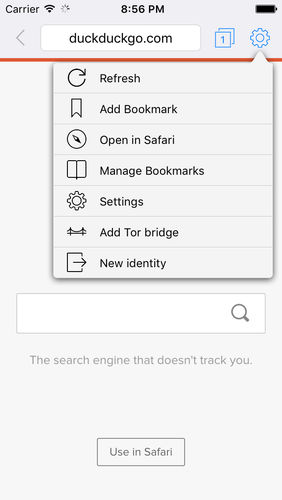
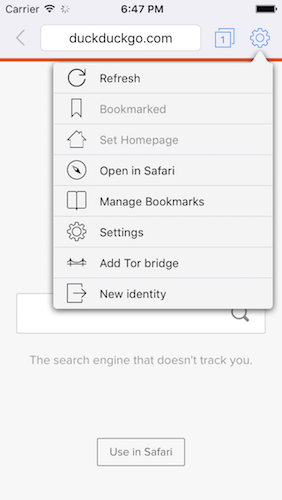
Fixed homepage bug and tweaked tab selection
Fixed a bug where the « Set Homepage » button would always be disabled
No longer selects automatically the next tab when closing a tab

diff --git a/OnionBrowser/OnionBrowser/BookmarkController.m b/OnionBrowser/OnionBrowser/BookmarkController.m
@@ -39,29 +39,29 @@ UIBarButtonItem *leftItem;
 
 - (void)viewDidLoad
 {
-	[super viewDidLoad];
-	
-	appDelegate = (AppDelegate *)[[UIApplication sharedApplication] delegate];
-	
-	self.title = @"Bookmarks";
-	self.navigationItem.rightBarButtonItem = addItem = [[UIBarButtonItem alloc] initWithBarButtonSystemItem:UIBarButtonSystemItemAdd target:self action:@selector(addItem:)];
-	self.navigationItem.leftBarButtonItem = leftItem = [[UIBarButtonItem alloc] initWithTitle:@"Done" style:UIBarButtonItemStyleDone target:self.navigationController action:@selector(dismissModalViewControllerAnimated:)];
-	
-	UILongPressGestureRecognizer *lpgr = [[UILongPressGestureRecognizer alloc] initWithTarget:self action:@selector(didLongPress:)];
-	lpgr.minimumPressDuration = 0.75f;
-	lpgr.delegate = self;
-	[[self tableView] addGestureRecognizer:lpgr];
+    [super viewDidLoad];
+    
+    appDelegate = (AppDelegate *)[[UIApplication sharedApplication] delegate];
+    
+    self.title = @"Bookmarks";
+    self.navigationItem.rightBarButtonItem = addItem = [[UIBarButtonItem alloc] initWithBarButtonSystemItem:UIBarButtonSystemItemAdd target:self action:@selector(addItem:)];
+    self.navigationItem.leftBarButtonItem = leftItem = [[UIBarButtonItem alloc] initWithTitle:@"Done" style:UIBarButtonItemStyleDone target:self.navigationController action:@selector(dismissModalViewControllerAnimated:)];
+    
+    UILongPressGestureRecognizer *lpgr = [[UILongPressGestureRecognizer alloc] initWithTarget:self action:@selector(didLongPress:)];
+    lpgr.minimumPressDuration = 0.75f;
+    lpgr.delegate = self;
+    [[self tableView] addGestureRecognizer:lpgr];
 }
 
 - (void)viewWillDisappear:(BOOL)animated
 {
-	[Bookmark persistList];
+    [Bookmark persistList];
 }
 
 - (void)didReceiveMemoryWarning
 {
-	[super didReceiveMemoryWarning];
-	// Dispose of any resources that can be recreated.
+    [super didReceiveMemoryWarning];
+    // Dispose of any resources that can be recreated.
 }
 
 #pragma mark - Table view data source
@@ -71,51 +71,51 @@ UIBarButtonItem *leftItem;
     if (self.embedded)
         return 2;
     
-	return 1;
+    return 1;
 }
 
 - (NSInteger)tableView:(UITableView *)tableView numberOfRowsInSection:(NSInteger)section
 {
     if (section == 1 || !self.embedded)
         return [[Bookmark list] count];
-
-	return 1;
+    
+    return 1;
 }
 
 - (NSString *)tableView:(UITableView *)tableView titleForHeaderInSection:(NSInteger)section
 {
     if (self.embedded && section == 1)
-		return @"Bookmarks";
+        return @"Bookmarks";
     else
-		return nil;
+        return nil;
 }
 
 - (void)tableView:(UITableView *)tableView willDisplayHeaderView:(UIView *)view forSection:(NSInteger)section
 {
-	if (self.embedded && [view isKindOfClass:[UITableViewHeaderFooterView class]]) {
-		UITableViewHeaderFooterView *tableViewHeaderFooterView = (UITableViewHeaderFooterView *) view;
-		int buttonSize = tableViewHeaderFooterView.frame.size.height - 8;
-		
-		UIButton *b = [[UIButton alloc] init];
-		//[b setFrame:CGRectMake(tableViewHeaderFooterView.frame.size.width - buttonSize - 6, 3, buttonSize, buttonSize)];
+    if (self.embedded && [view isKindOfClass:[UITableViewHeaderFooterView class]]) {
+        UITableViewHeaderFooterView *tableViewHeaderFooterView = (UITableViewHeaderFooterView *) view;
+        int buttonSize = tableViewHeaderFooterView.frame.size.height - 8;
+        
+        UIButton *b = [[UIButton alloc] init];
+        //[b setFrame:CGRectMake(tableViewHeaderFooterView.frame.size.width - buttonSize - 6, 3, buttonSize, buttonSize)];
         [b setFrame:CGRectMake(tableViewHeaderFooterView.frame.size.width - buttonSize * 2 - 6, 3, buttonSize * 2, buttonSize)];
-		[b setBackgroundColor:[UIColor lightGrayColor]];
-		[b setTitle:@"Close" forState:UIControlStateNormal];
-		[[b titleLabel] setFont:[UIFont boldSystemFontOfSize:12]];
-		[[b layer] setCornerRadius:buttonSize / 3];
-		[b setClipsToBounds:YES];
-		
-		[b addTarget:self action:@selector(close) forControlEvents:UIControlEventTouchUpInside];
-		
-		[tableViewHeaderFooterView addSubview:b];
-	}
+        [b setBackgroundColor:[UIColor lightGrayColor]];
+        [b setTitle:@"Close" forState:UIControlStateNormal];
+        [[b titleLabel] setFont:[UIFont boldSystemFontOfSize:12]];
+        [[b layer] setCornerRadius:buttonSize / 3];
+        [b setClipsToBounds:YES];
+        
+        [b addTarget:self action:@selector(close) forControlEvents:UIControlEventTouchUpInside];
+        
+        [tableViewHeaderFooterView addSubview:b];
+    }
 }
 
 - (UITableViewCell *)tableView:(UITableView *)tableView cellForRowAtIndexPath:(NSIndexPath *)indexPath
 {
-	UITableViewCell *cell = [tableView dequeueReusableCellWithIdentifier:@"bookmark"];
-	if (cell == nil)
-		cell = [[UITableViewCell alloc] initWithStyle:UITableViewCellStyleSubtitle reuseIdentifier:@"boomark"];
+    UITableViewCell *cell = [tableView dequeueReusableCellWithIdentifier:@"bookmark"];
+    if (cell == nil)
+        cell = [[UITableViewCell alloc] initWithStyle:UITableViewCellStyleSubtitle reuseIdentifier:@"boomark"];
     
     if (indexPath.row < [[Bookmark list] count] && (indexPath.section == 1 || !self.embedded)) {
         Bookmark *b = [[Bookmark list] objectAtIndex:indexPath.row];
@@ -128,11 +128,11 @@ UIBarButtonItem *leftItem;
         appDelegate = (AppDelegate *)[[UIApplication sharedApplication] delegate];
         cell.detailTextLabel.text = [appDelegate homepage];
     }
-
-	
-	[cell setShowsReorderControl:YES];
-	
-	return cell;
+    
+    
+    [cell setShowsReorderControl:YES];
+    
+    return cell;
 }
 
 - (void)tableView:(UITableView *)tableView didSelectRowAtIndexPath:(NSIndexPath *)indexPath
@@ -146,90 +146,90 @@ UIBarButtonItem *leftItem;
         }
     } else {
         Bookmark *bookmark = [Bookmark list][[indexPath row]];
-
-		[tableView deselectRowAtIndexPath:indexPath animated:YES];
-		
-		UIAlertController *alertController = [UIAlertController alertControllerWithTitle:@"Edit Bookmark" message:@"Enter the details of the URL to bookmark:" preferredStyle:UIAlertControllerStyleAlert];
-		[alertController addTextFieldWithConfigurationHandler:^(UITextField *textField) {
-			textField.placeholder = @"URL";
-			textField.text = bookmark.urlString;
-		}];
-		[alertController addTextFieldWithConfigurationHandler:^(UITextField *textField) {
-			textField.placeholder = @"Page Name (leave blank to use URL)";
-			textField.text = bookmark.name;
-		}];
-		
-		UIAlertAction *okAction = [UIAlertAction actionWithTitle:NSLocalizedString(@"OK", @"OK action") style:UIAlertActionStyleDefault handler:^(UIAlertAction *action) {
-			UITextField *url = alertController.textFields[0];
-			bookmark.urlString = [url text];
-			
-			UITextField *name = alertController.textFields[1];
-			bookmark.name = [name text];
-			
-			[self.tableView reloadData];
-		}];
-		
-		UIAlertAction *cancelAction = [UIAlertAction actionWithTitle:NSLocalizedString(@"Cancel", @"Cancel action") style:UIAlertActionStyleCancel handler:nil];
-		[alertController addAction:cancelAction];
-		[alertController addAction:okAction];
-		
-		[self presentViewController:alertController animated:YES completion:nil];
-	}
+        
+        [tableView deselectRowAtIndexPath:indexPath animated:YES];
+        
+        UIAlertController *alertController = [UIAlertController alertControllerWithTitle:@"Edit Bookmark" message:@"Enter the details of the URL to bookmark:" preferredStyle:UIAlertControllerStyleAlert];
+        [alertController addTextFieldWithConfigurationHandler:^(UITextField *textField) {
+            textField.placeholder = @"URL";
+            textField.text = bookmark.urlString;
+        }];
+        [alertController addTextFieldWithConfigurationHandler:^(UITextField *textField) {
+            textField.placeholder = @"Page Name (leave blank to use URL)";
+            textField.text = bookmark.name;
+        }];
+        
+        UIAlertAction *okAction = [UIAlertAction actionWithTitle:NSLocalizedString(@"OK", @"OK action") style:UIAlertActionStyleDefault handler:^(UIAlertAction *action) {
+            UITextField *url = alertController.textFields[0];
+            bookmark.urlString = [url text];
+            
+            UITextField *name = alertController.textFields[1];
+            bookmark.name = [name text];
+            
+            [self.tableView reloadData];
+        }];
+        
+        UIAlertAction *cancelAction = [UIAlertAction actionWithTitle:NSLocalizedString(@"Cancel", @"Cancel action") style:UIAlertActionStyleCancel handler:nil];
+        [alertController addAction:cancelAction];
+        [alertController addAction:okAction];
+        
+        [self presentViewController:alertController animated:YES completion:nil];
+    }
 }
 
 - (BOOL)tableView:(UITableView *)tableView canEditRowAtIndexPath:(NSIndexPath *)indexPath
 {
-	return YES;
+    return YES;
 }
 
 - (void)tableView:(UITableView *)tableView commitEditingStyle:(UITableViewCellEditingStyle)editingStyle forRowAtIndexPath:(NSIndexPath *)indexPath
 {
-	if (editingStyle == UITableViewCellEditingStyleDelete) {
-		[[Bookmark list] removeObjectAtIndex:[indexPath row]];
-		[tableView deleteRowsAtIndexPaths:@[indexPath] withRowAnimation:UITableViewRowAnimationFade];
-	}
+    if (editingStyle == UITableViewCellEditingStyleDelete) {
+        [[Bookmark list] removeObjectAtIndex:[indexPath row]];
+        [tableView deleteRowsAtIndexPaths:@[indexPath] withRowAnimation:UITableViewRowAnimationFade];
+    }
 }
 
 - (void)tableView:(UITableView *)tableView moveRowAtIndexPath:(NSIndexPath *)sourceIndexPath toIndexPath:(NSIndexPath *)destinationIndexPath
 {
-	Bookmark *s = [Bookmark list][[sourceIndexPath row]];
-	[[Bookmark list] removeObjectAtIndex:[sourceIndexPath row]];
-	[[Bookmark list] insertObject:s atIndex:[destinationIndexPath row]];
+    Bookmark *s = [Bookmark list][[sourceIndexPath row]];
+    [[Bookmark list] removeObjectAtIndex:[sourceIndexPath row]];
+    [[Bookmark list] insertObject:s atIndex:[destinationIndexPath row]];
 }
 
 - (void)addItem:sender
 {
-	UIAlertController *uiac = [Bookmark addBookmarkDialogWithOkCallback:^{
-		[self.tableView reloadData];
-	}];
-	
-	[self presentViewController:uiac animated:YES completion:nil];
+    UIAlertController *uiac = [Bookmark addBookmarkDialogWithOkCallback:^{
+        [self.tableView reloadData];
+    }];
+    
+    [self presentViewController:uiac animated:YES completion:nil];
 }
 
 - (void)didLongPress:(UILongPressGestureRecognizer *)gestureRecognizer
 {
-	CGPoint p = [gestureRecognizer locationInView:[self tableView]];
-	
-	NSIndexPath *indexPath = [[self tableView] indexPathForRowAtPoint:p];
-	if (gestureRecognizer.state == UIGestureRecognizerStateBegan && indexPath != nil) {
-		[[self tableView] setEditing:YES animated:YES];
-		
-		self.navigationItem.rightBarButtonItem = [[UIBarButtonItem alloc] initWithBarButtonSystemItem:UIBarButtonSystemItemDone target:self action:@selector(doneEditing:)];
-		self.navigationItem.leftBarButtonItem = nil;
-	}
+    CGPoint p = [gestureRecognizer locationInView:[self tableView]];
+    
+    NSIndexPath *indexPath = [[self tableView] indexPathForRowAtPoint:p];
+    if (gestureRecognizer.state == UIGestureRecognizerStateBegan && indexPath != nil) {
+        [[self tableView] setEditing:YES animated:YES];
+        
+        self.navigationItem.rightBarButtonItem = [[UIBarButtonItem alloc] initWithBarButtonSystemItem:UIBarButtonSystemItemDone target:self action:@selector(doneEditing:)];
+        self.navigationItem.leftBarButtonItem = nil;
+    }
 }
-	
+
 - (void)doneEditing:sender
 {
-	[[self tableView] setEditing:NO animated:YES];
-	self.navigationItem.rightBarButtonItem = addItem;
-	self.navigationItem.leftBarButtonItem = leftItem;
+    [[self tableView] setEditing:NO animated:YES];
+    self.navigationItem.rightBarButtonItem = addItem;
+    self.navigationItem.leftBarButtonItem = leftItem;
 }
 
 - (void)close
 {
-	[self removeFromParentViewController];
-	[[self view] removeFromSuperview];
+    [self removeFromParentViewController];
+    [[self view] removeFromSuperview];
 }
 
 @end

diff --git a/OnionBrowser/OnionBrowser/WebViewController.m b/OnionBrowser/OnionBrowser/WebViewController.m
@@ -497,6 +497,10 @@
 	}];
 }
 
+- (void)removeWithoutFocusingTab:(NSNumber *)tabNumber {
+    [self removeTab:tabNumber andFocusTab:[NSNumber numberWithInt:-2]];
+}
+
 - (void)removeTab:(NSNumber *)tabNumber
 {
 	[self removeTab:tabNumber andFocusTab:[NSNumber numberWithInt:-1]];
@@ -533,7 +537,7 @@
 	[tabChooser setNumberOfPages:webViewTabs.count];
 	[tabCount setText:[NSString stringWithFormat:@"%lu", (long)tabChooser.numberOfPages]];
 
-	if (futureFocusNumber == -1) {
+	if (futureFocusNumber == -1 || futureFocusNumber == -2) {
 		if (curTabIndex == tabNumber.intValue) {
 			if (webViewTabs.count > tabNumber.intValue && webViewTabs[tabNumber.intValue]) {
 				/* keep currentPage pointing at the page that shifted down to here */
@@ -551,7 +555,7 @@
 				return;
 			}
 		}
-	}
+    }
 	else {
 		[self setCurTabIndex:futureFocusNumber];
 	}
@@ -567,12 +571,14 @@
 			wvt.viewHolder.transform = CGAffineTransformMakeScale(ZOOM_OUT_SCALE, ZOOM_OUT_SCALE);
 		}
 	} completion:^(BOOL finished) {
-		[self setCurTabIndex:curTabIndex];
-
-		[self slideToCurrentTabWithCompletionBlock:^(BOOL finished) {
-			showingTabs = true;
-			[self showTabs:nil];
-		}];
+        if (futureFocusNumber != -2) {
+            [self setCurTabIndex:curTabIndex];
+            
+            [self slideToCurrentTabWithCompletionBlock:^(BOOL finished) {
+                showingTabs = true;
+                [self showTabs:nil];
+            }];
+        }
 	}];
 }
 
@@ -974,7 +980,7 @@
 	int fuzz = 8;
 	CGRect closerFrame = CGRectMake(self.curWebViewTab.closer.frame.origin.x - fuzz, self.curWebViewTab.closer.frame.origin.y - fuzz, self.curWebViewTab.closer.frame.size.width + (fuzz * 2), self.curWebViewTab.closer.frame.size.width + (fuzz * 2));
 	if (CGRectContainsPoint(closerFrame, point)) {
-		[self removeTab:[NSNumber numberWithLong:curTabIndex]];
+		[self removeWithoutFocusingTab:[NSNumber numberWithLong:curTabIndex]];
 	}
 	else {
 		[self showTabs:nil];

diff --git a/OnionBrowser/OnionBrowser/AppDelegate.m b/OnionBrowser/OnionBrowser/AppDelegate.m
@@ -50,9 +50,9 @@ NSString *const STATE_RESTORE_TRY_KEY = @"state_restore_lock";
     NSString *path = [NSSearchPathForDirectoriesInDomains(NSDocumentDirectory, NSUserDomainMask, YES) lastObject];
     
     if (![fileManager fileExistsAtPath:[path stringByAppendingPathComponent:@"bookmarks.plist"]]) {
-        [Bookmark addBookmarkForURLString:@"https://www.torproject.org/" withName:@"Learn more about Tor"];
-        [Bookmark addBookmarkForURLString:@"https://blog.torproject.org/" withName:@"The Tor Blog"];
-        [Bookmark addBookmarkForURLString:@"https://bridges.torproject.org/" withName:@"Tor Bridges"];
+        [Bookmark addBookmarkForURLString:@"https://duckduckgo.com" withName:@"DuckDuckGo"];
+        [Bookmark addBookmarkForURLString:@"https://bing.com" withName:@"Bing"];
+        [Bookmark addBookmarkForURLString:@"https://search.yahoo.com" withName:@"Yahoo search"];
     }
     
     return YES;

diff --git a/OnionBrowser/OnionBrowser/WebViewMenuController.m b/OnionBrowser/OnionBrowser/WebViewMenuController.m
@@ -135,10 +135,10 @@ NSString * const LABEL = @"L";
     else if ([func isEqualToString:@"menuSetHomepage"]) {
         cellImage = [UIImage imageNamed:@"homepage"];
         if (haveURL) { //[appDelegate homepage]
+            // cell.userInteractionEnabled = cell.textLabel.enabled = YES;
             if ([[appDelegate homepage] isEqualToString:[NSString stringWithFormat:@"%@", [[[appDelegate appWebView] curWebViewTab] url]]]) {
                 cell.userInteractionEnabled = cell.textLabel.enabled = NO;
             }
-            cell.userInteractionEnabled = cell.textLabel.enabled = NO;
         }
         else
             cell.userInteractionEnabled = cell.textLabel.enabled = NO;
